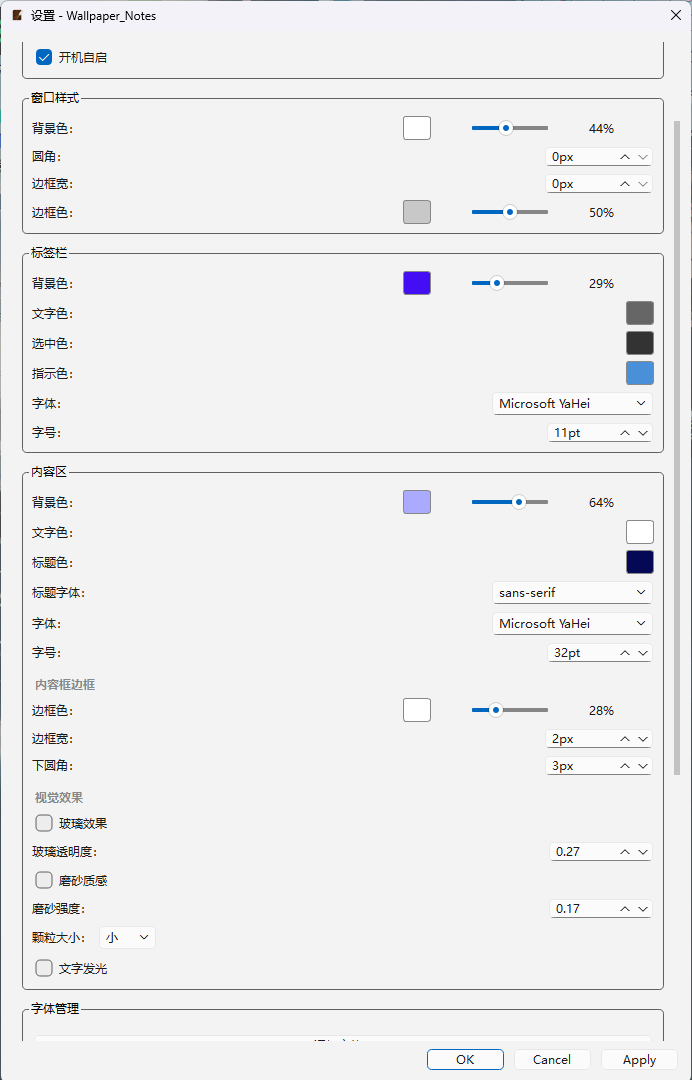
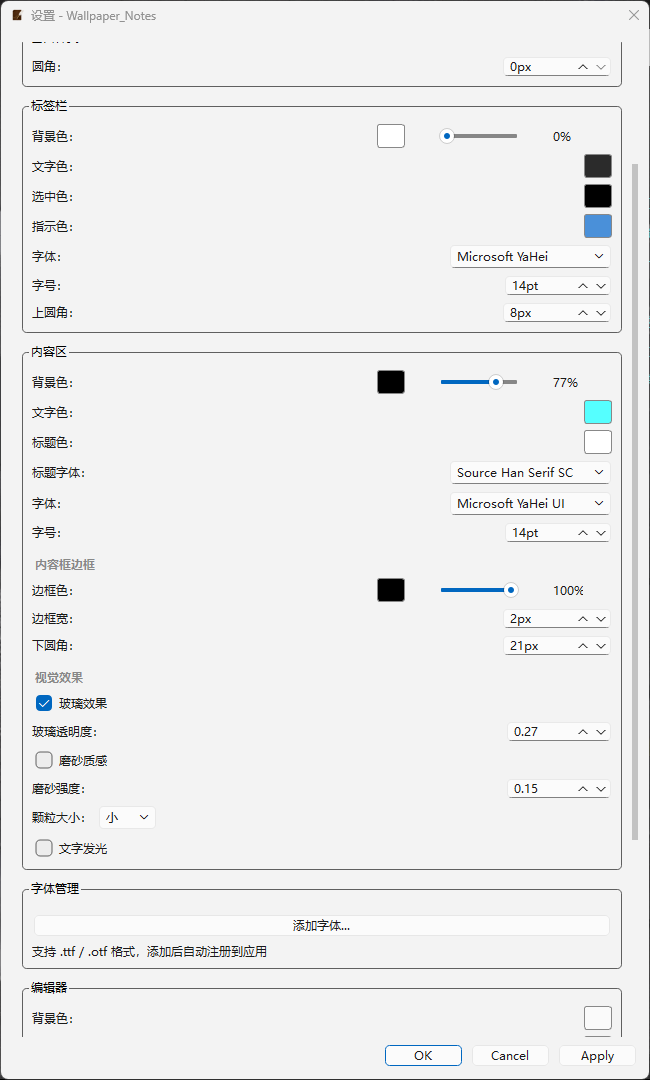
chore: exclude notes/ and depth analysis report from tracking
- Added notes/ to .gitignore (private user content)
- Added 开发者看这里/深度分析报告.md to .gitignore

diff --git a/README.md b/README.md
@@ -4,6 +4,8 @@
 
 让桌面不只是壁纸——更是一个低摩擦的灵感看板。
 
+高度自定义——美学由自己定义
+
 > **English?** This README is in Chinese because the app is Chinese-first. An English version may come later. The code comments, SKILL.md, and config files are bilingual or English-friendly.
 
 ---
@@ -14,11 +16,11 @@
 
 **📑 多便签 + 标签切换** — 一个标签 = 一个 `.md` 文件，直观的标签栏管理
 
-**🖱 极低编辑摩擦** — 双击进入编辑模式，**三击**保存退出；Ctrl+Shift+N 一键唤出（快捷键可在设置中修改）（有bug）**Esc**在编辑模式时点击Esc，界面自动退回到桌面
+**🖱 极低编辑摩擦** — 双击进入编辑模式，双击保存退出；Ctrl+Shift+N 一键唤出（快捷键可在设置中修改）（有bug）**Esc**在编辑模式时点击Esc，界面自动退回到桌面
 
 **📝 Markdown 渲染** — 实时预览渲染效果，标题、列表、引用、代码块、行内样式全支持
 
-**🎨 高度可定制** — 窗口样式、字体、颜色、透明度、圆角、边框……所有视觉效果均可通过设置对话框实时调整，所见即所得
+**🎨 高度可定制** — 窗口样式、字体、颜色、透明度、圆角、边框……所有视觉效果均可通过托盘设置的对话框实时调整，所见即所得
 
 **🤖 AI 友好** — 外部程序可直接读写 `notes/` 下的 `.md` 文件；附赠 AI Agent 配套技能（SKILL.md），让 AI 帮你管理便签
 
@@ -33,6 +35,7 @@
 ## 📸 截图
 
 ![](screenshots/wallpaper-overview.png)
+![](screenshots/wallpaper-overview2.png)
 *桌面全貌——便签直接贴在壁纸上，不挡应用窗口，融入桌面环境*
 
 ---
@@ -79,7 +82,7 @@ pyinstaller main.py --onefile --noconsole --name Wallpaper_Notes --icon=note_app
 |------|------|
 | 新建便签 | 右键托盘图标 → 新增便签 |
 | 编辑便签 | 双击便签内容区域 |
-| 保存并退出编辑 | 三击内容区域 / 按 Esc |
+| 保存并退出编辑 | 双击内容区域 / 按 Esc |
 | 删除便签 | 右键标签页 → 删除 |
 | 重命名便签 | 右键标签页 → 重命名 |
 | 切换便签 | 点击标签栏 |
@@ -180,10 +183,7 @@ Wallpaper_Notes/
 ├── config.json          # 功能默认配置
 ├── SKILL.md             # AI Agent 配套技能
 ├── notes/               # 便签数据（.md 文件）
-│   ├── 每日待办.md
-│   ├── 灵感札记.md
-│   ├── 金句.md
-│   └── 挪威的森林.md
+│   └── 笔记.md
 ├── fonts/               # 自定义字体（UI 导入后自动放置）
 ├── requirements.txt
 └── .gitignore
@@ -211,11 +211,11 @@ pip install -r requirements.txt
 
 ### 项目设计文档
 
-- [`开发者看这里/PRD.md`](./开发者看这里/PRD.md) — 产品需求文档
-- [`开发者看这里/架构设计.md`](./开发者看这里/架构设计.md) — 系统架构说明
-- [`开发者看这里/开发规范.md`](./开发者看这里/开发规范.md) — 开发标准与约定
-- [`开发者看这里/项目功能映射表.md`](./开发者看这里/项目功能映射表.md) — 功能→文件映射
-- [`开发者看这里/前端样式文档.md`](./开发者看这里/前端样式文档.md) — 前端样式参考
+- [`开发者指南/PRD.md`](./开发者指南/PRD.md) — 产品需求文档
+- [`开发者指南/架构设计.md`](./开发者指南/架构设计.md) — 系统架构说明
+- [`开发者指南/开发规范.md`](./开发者指南/开发规范.md) — 开发标准与约定
+- [`开发者指南/项目功能映射表.md`](./开发者指南/项目功能映射表.md) — 功能→文件映射
+- [`开发者指南/前端样式文档.md`](./开发者指南/前端样式文档.md) — 前端样式参考
 
 ---
 
